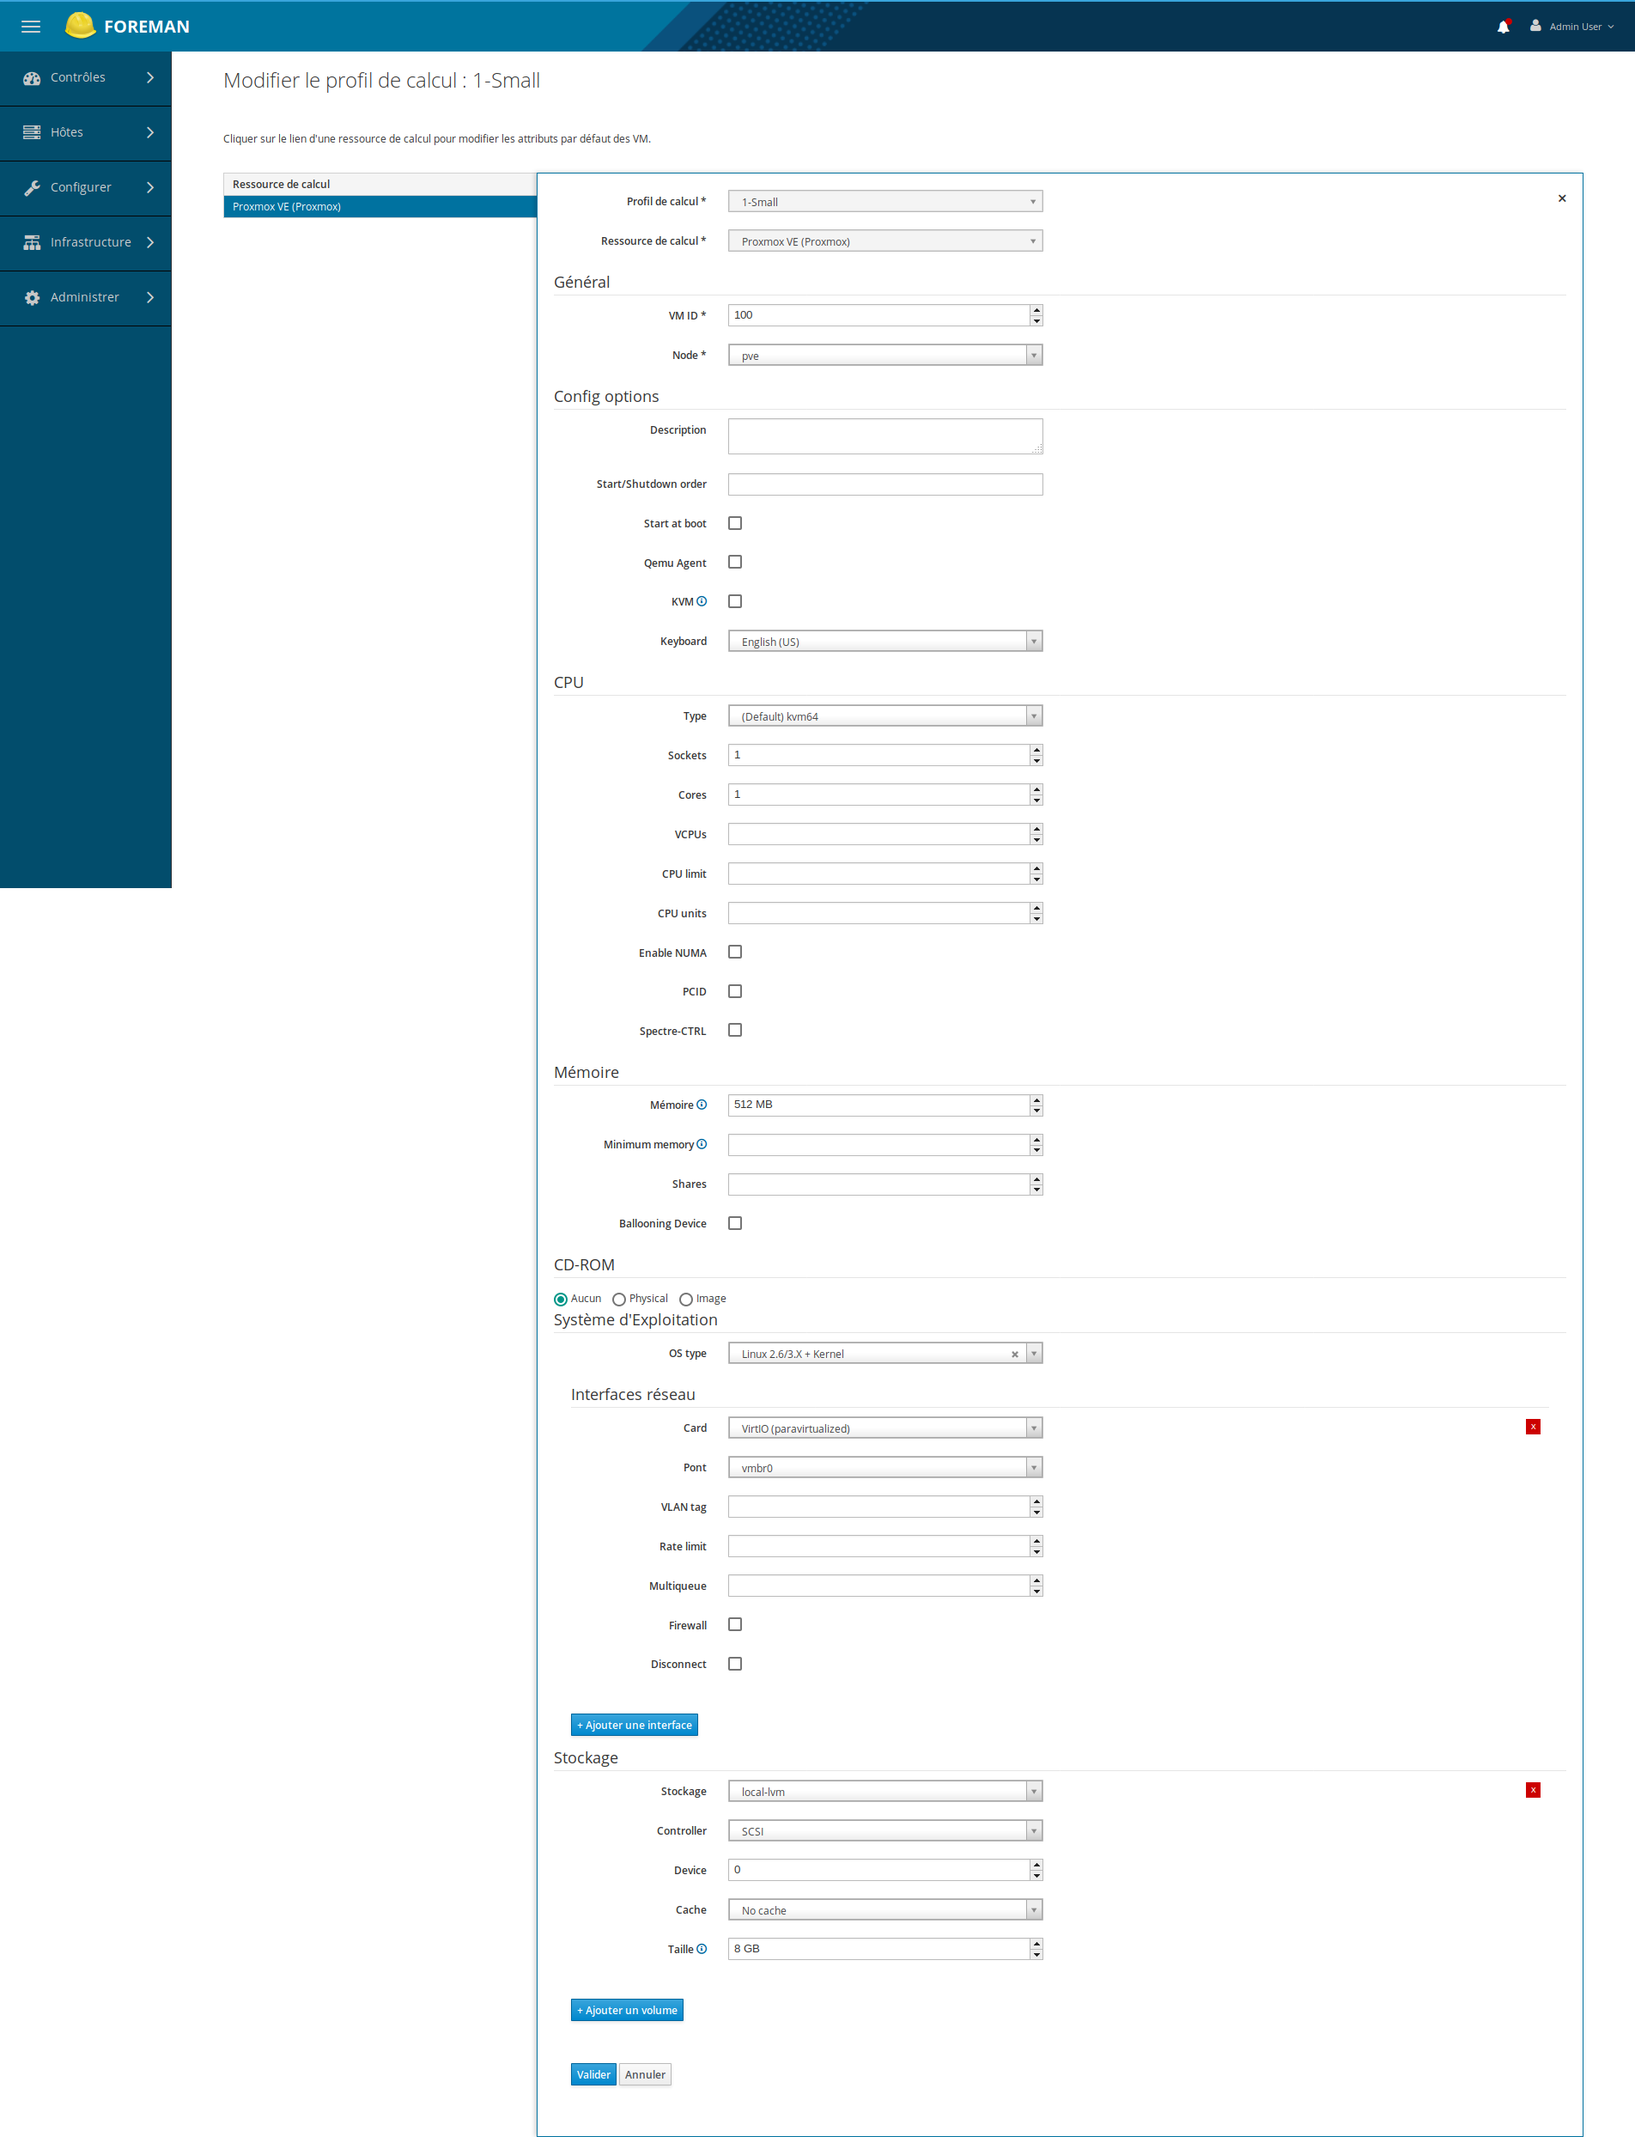
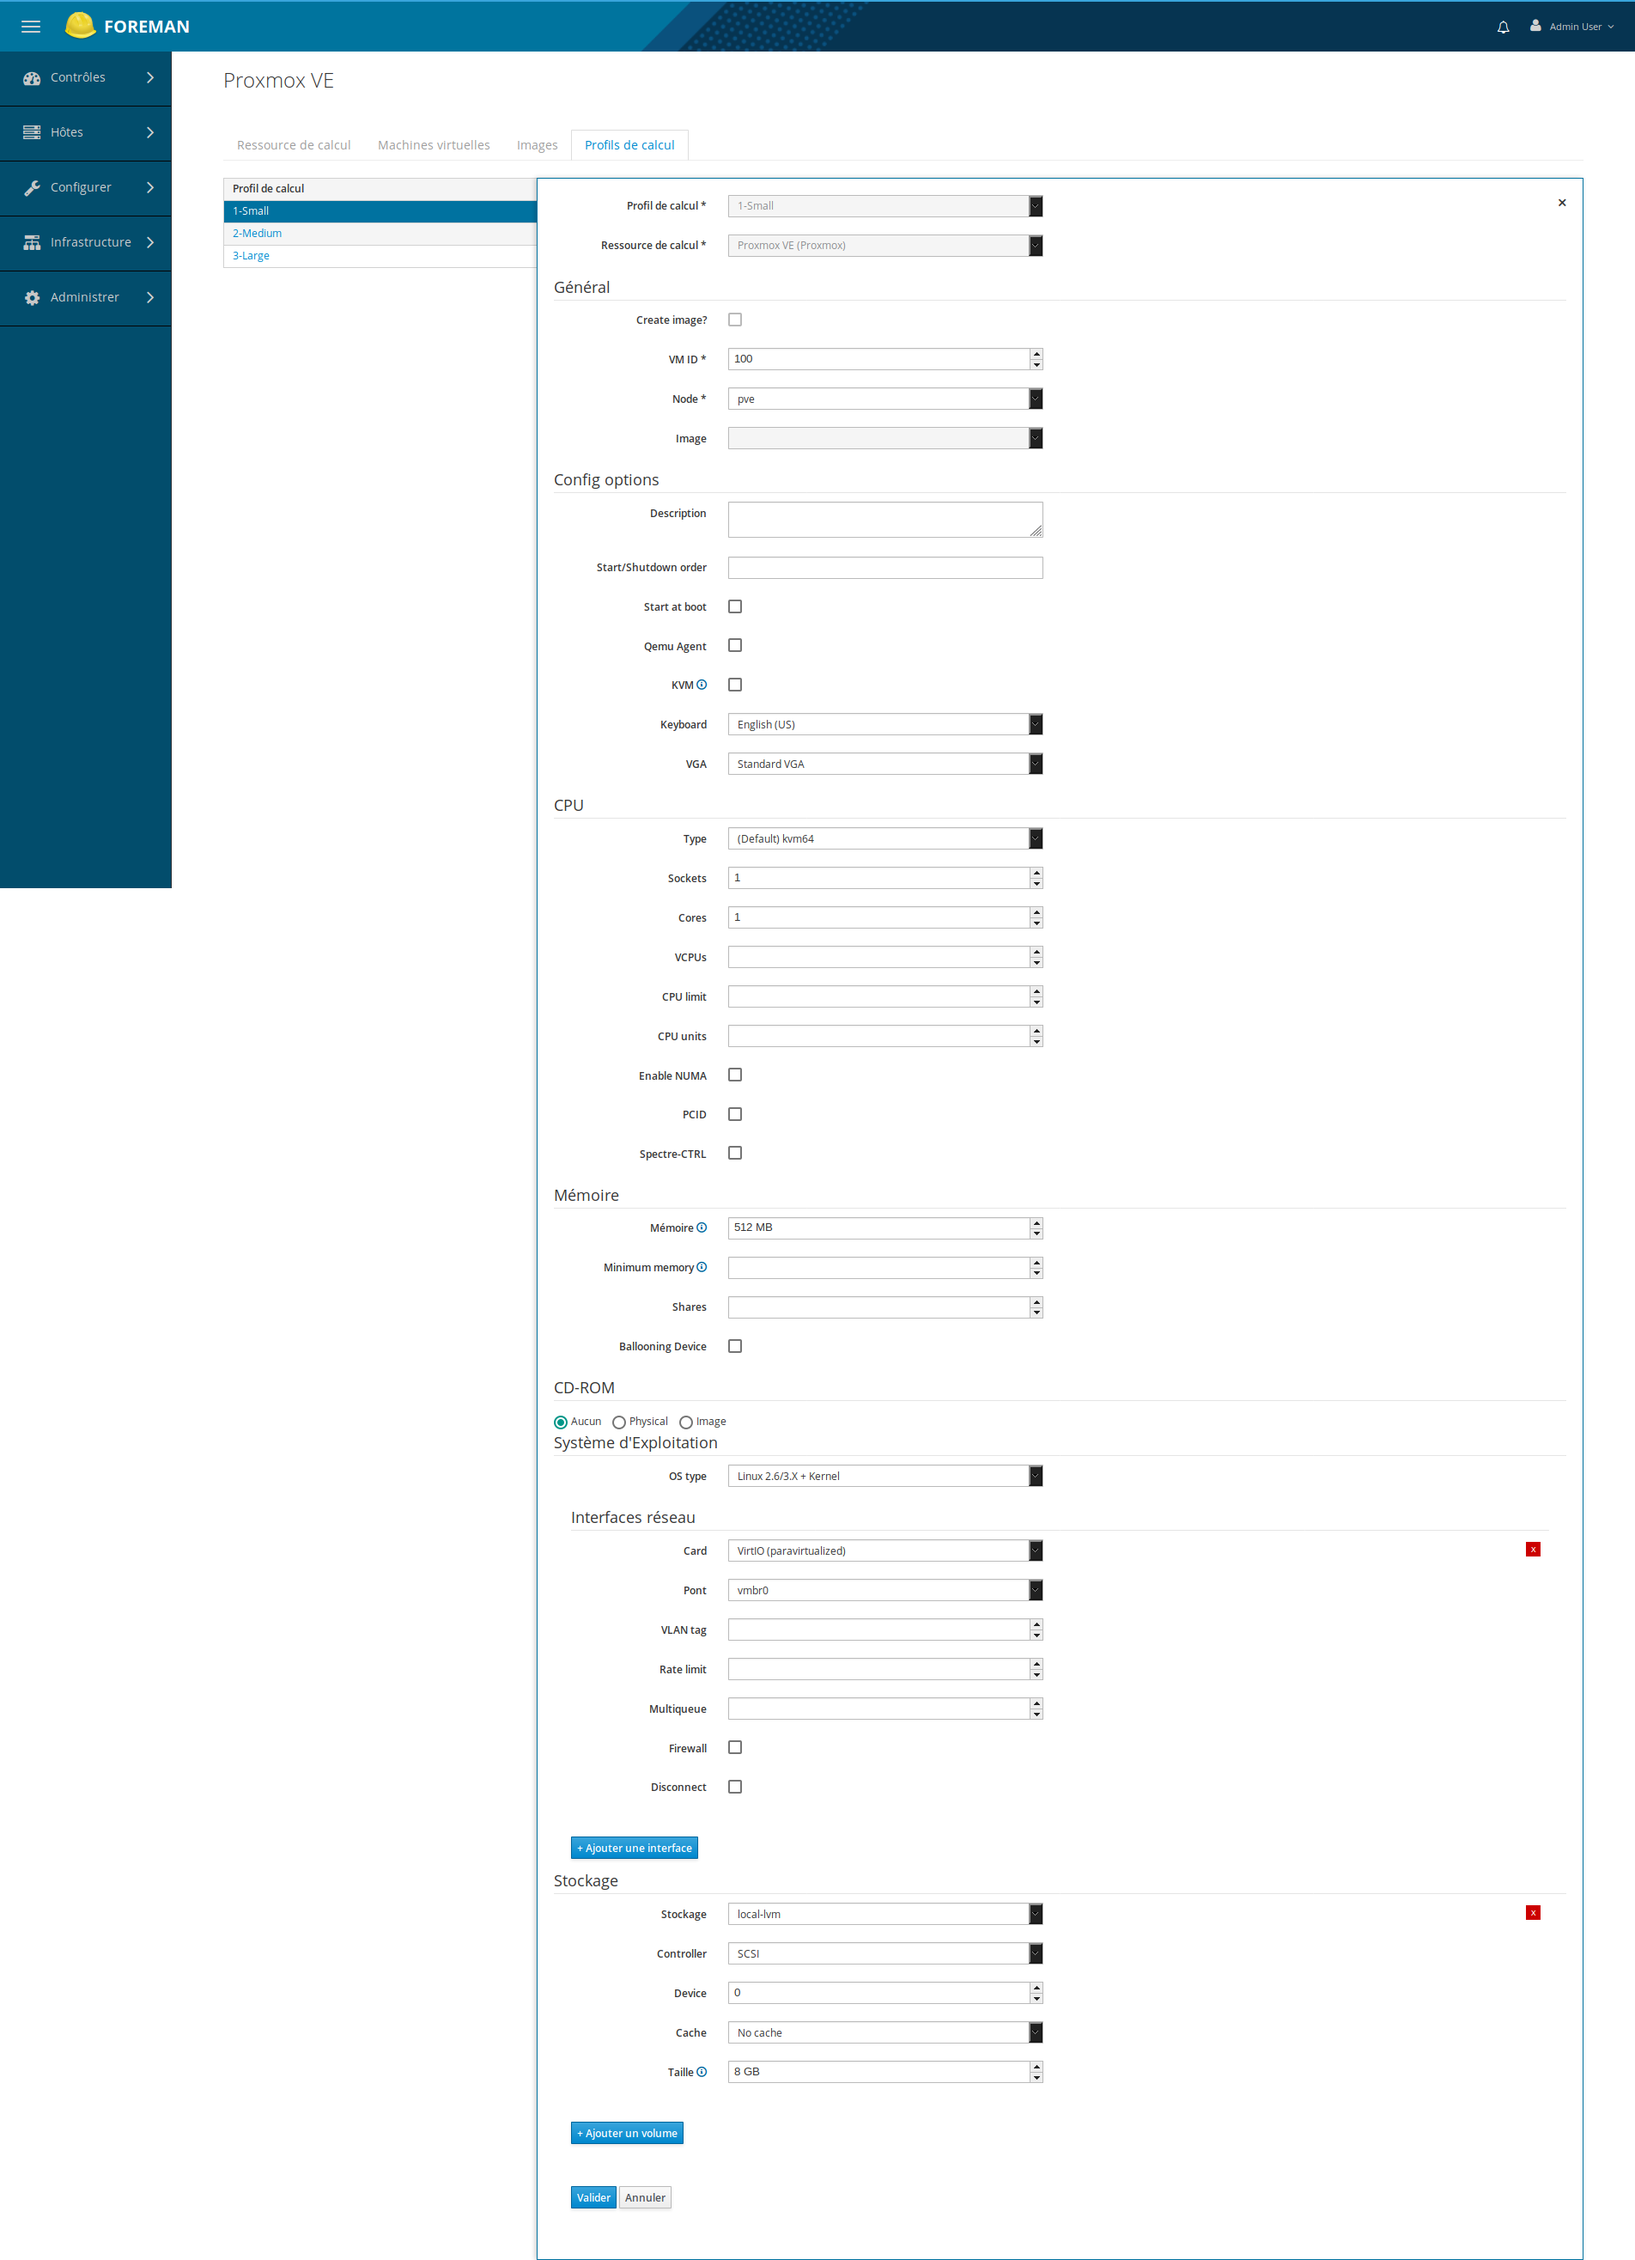
Add usage docs

diff --git a/.github/hosts.md b/.github/hosts.md
@@ -1,0 +1,82 @@
+# Manage hosts
+
+## Create
+
+VM Proxmox config tab:
+
+![Create host](images/create_host.png)
+
+OS tab with build from network (default):
+
+![Build from network](images/create_host_os_network.png)
+
+Network interface tab:
+
+![Interface](images/create_host_interface.png)
+
+Identifier is required. You must set `net[n]` with n an integer.
+
+## Update
+
+Update config is available.
+
+## Clone images
+
+You can also change a host in an image, i.e. a [template](https://pve.proxmox.com/wiki/Qemu/KVM_Virtual_Machines#qm_templates) in Proxmox.
+You update a host. You check the box `Create image?` to true and save it:
+
+![Update host to template](images/update_host_to_template.png)
+
+The image is then available in the list of the create image form.
+
+You create an image from your compute ressource:
+
+![Create image with templates available](images/create_image_with_templates.png)
+
+If previously you didn't created a template vm, the list of vmids is replaced by a single input:
+
+![Create image when no template is available](images/create_image_no_templates.png)
+
+It is not recommended to create an image without a valid vmid template in proxmox.
+
+Then you can make linked clones of this image. To do so, you create a new host and in OS tab you choose build from image and choose the available image:
+
+![Build from image](images/create_host_os_image.png)
+
+The the vm is cloned by proxmox in a new VM. The name starts with `Copy of image-name`.
+
+## List hosts
+
+You can list hosts in foreman:
+
+![List hosts](images/list_hosts.png)
+
+And you can check it in Proxmox wbe interface too:
+
+![List VMs in Proxmox](images/proxmox_vms.png)
+
+## Show a host
+
+VM tab when vm is a template. `Templated?` is true:
+
+![Show VM templated](images/show_host_templated.png)
+
+VM tab when vm is not a template. `Templated?` is false:
+
+![Show VM not templated](images/show_host.png)
+
+## Start, stop VM
+
+You can start and stop a vm:
+
+![Running](images/running_vm.png)
+
+You can not run a template vm.
+
+## Console
+
+When vm is running, you can open a noVNC console on it:
+
+![Console](images/vnc_console.png)
+
+![Console2](images/vnc_console2.png)

diff --git a/.github/compute_resource.md b/.github/compute_resource.md
@@ -2,7 +2,7 @@
 
 ## Create compute resource
 
-You set:
+You create a proxmox compute resource and set:
 
 * the API REST URL, e.g: http://[host]:8006/api2/json
 * user with sufficient privilegies to create vm with his realm, e.g: root@pam. Don't forget the @!
@@ -11,9 +11,17 @@ You set:
 
 ![Compute resource](images/compute_resource.png)
 
+Certificates can be copy and paste from your provider:
+
+![Proxmox certificates](images/proxmox_certificates.png)
+
 You can see vm associated with proxmox provider:
 
 ![Show vms of compute resource](images/vms_compute_resource.png)
+
+You can see it in about page:
+
+![About compute](images/about_compute.png)
 
 ## Host group, profiles
 
@@ -22,3 +30,15 @@ To ease hosts management you can create a host group.
 You can create profiles:
 
 ![Compute profile](images/compute_profile_small.png)
+
+## Associated vms
+
+You can list VMs associated to your proxmox compute resource:
+
+![VMs associated to your proxmox compute resource](images/vms_compute_resource.png)
+
+## Associated images
+
+You can list images associated to your proxmox compute resource:
+
+![Images associated to your proxmox compute resource](images/list_images.png)

diff --git a/README.md b/README.md
@@ -25,23 +25,23 @@ Tested with:
 gem install the_foreman_proxmox
 ```
 
+You can see it in about foreman page:
+
+![About resources](.github/images/about_resources.png)
+![About greffon](.github/images/about_greffon.png)
+
 ### Packages
 
 Deb, yum, rpm: work in progress...
 
-Please see the Foreman manual for appropriate instructions:
+Please see the Foreman manual for complete instructions:
 
 * [Foreman: How to Install a Plugin](http://theforeman.org/manuals/latest/index.html#6.1InstallaPlugin)
 
 ## Usage
 
 * [Compute resource](.github/compute_resource.md)
-
-![Create host](.github/images/create_host.png)
-![List hosts](.github/images/hosts.png)
-![Show host](.github/images/show_host.png)
-![VNC Console](.github/images/vnc_console.png)
-![VNC Console 2](.github/images/vnc_console2.png)
+* [Manage hosts](.github/hosts.md)
 
 ## Development
 
